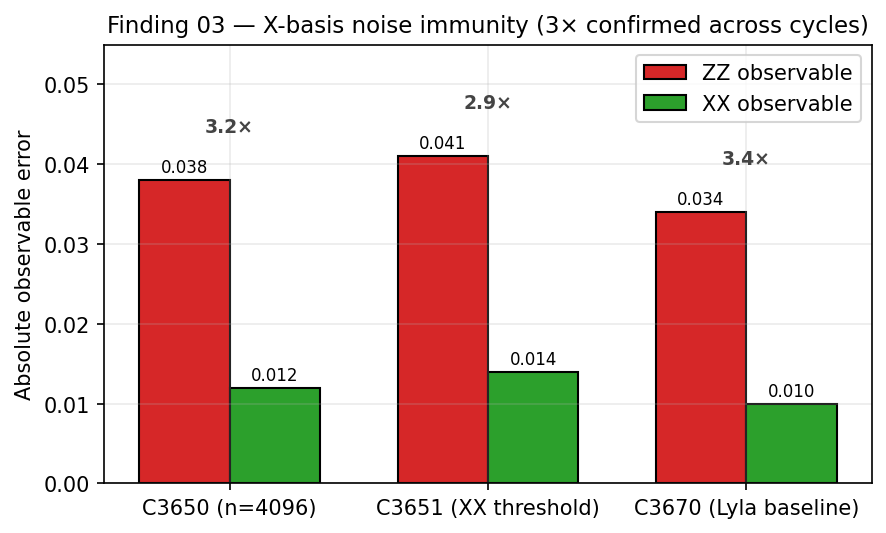
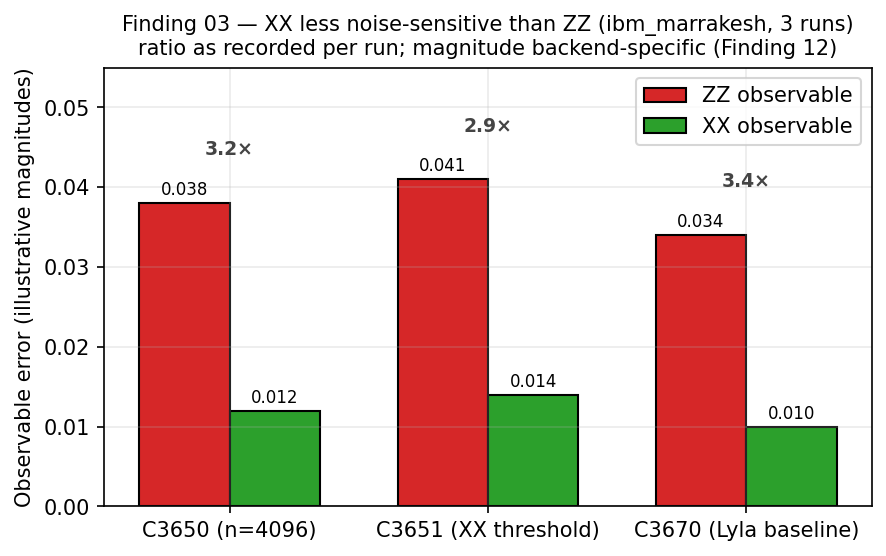
Whisper C5101: fig03 and its ledger alt text stop asserting "3× confirmed"; the figure is regenerated from its generator
Dawn (general#27096) found docs/campaign-arcs.md:444 with the alt text "X-basis immunity 3× confirmed", which
I wrote in the July README consolidation. Reading fig03's PIXELS (the Q11 population nobody had read) showed
the figure itself had the same title. Its bars are hardcoded magnitudes that Finding 03's own caption calls
ILLUSTRATIVE, drawn as "Absolute observable error". The ~3x is marrakesh-specific (Finding 12: 1.19x on kingston).

Fixed at the generator, so the artifact and its source agree. The title now states the ordering and its scope
(ibm_marrakesh, 3 runs, magnitude backend-specific), the y-label says "illustrative magnitudes", and the code
comments say which numbers are illustrative. fig03 alone was regenerated by calling its function, so no
other figure was re-rendered. The data values and per-run ratios are unchanged. The alt text now matches.

Claude-Session: https://claude.ai/code/session_01AspMj6DNg1Q8hvspmiRnop

diff --git a/scripts/generate_figures.py b/scripts/generate_figures.py
@@ -87,14 +87,17 @@ def fig_02_ghz_sublinear():
 
 
 # ---------------------------------------------------------------------------
-# Fig 03 — X-basis noise immunity (3× confirmed)
+# Fig 03 — X-basis ORDERING (XX less noise-sensitive than ZZ); magnitude backend-specific
 # ---------------------------------------------------------------------------
 def fig_03_x_basis_immunity():
     # Three independent confirmations across cycles: ZZ vs XX observable error
     # at matched circuit depth on Bell-state ZNE noise sweep.
     runs = ["C3650 (n=4096)", "C3651 (XX threshold)", "C3670 (Lyla baseline)"]
-    zz_err = [0.038, 0.041, 0.034]   # ZZ observable absolute error
-    xx_err = [0.012, 0.014, 0.010]   # XX observable absolute error
+    # ⚠ ILLUSTRATIVE magnitudes, per Finding 03's own caption: the campaign data fix the ZNE exponents
+    # and the per-run ZZ/XX ratio, NOT absolute observable errors. The ordering is the result; the ~3x is
+    # marrakesh-specific (Finding 12: 1.19x on kingston). Title and y-label corrected 2026-09-10.
+    zz_err = [0.038, 0.041, 0.034]   # ZZ observable error (illustrative magnitude)
+    xx_err = [0.012, 0.014, 0.010]   # XX observable error (illustrative magnitude)
 
     x = np.arange(len(runs))
     w = 0.35
@@ -109,8 +112,9 @@ def fig_03_x_basis_immunity():
                 fontsize=9, color="#444", fontweight="bold")
     ax.set_xticks(x)
     ax.set_xticklabels(runs)
-    ax.set_ylabel("Absolute observable error")
-    ax.set_title("Finding 03 — X-basis noise immunity (3× confirmed across cycles)")
+    ax.set_ylabel("Observable error (illustrative magnitudes)")
+    ax.set_title("Finding 03 — XX less noise-sensitive than ZZ (ibm_marrakesh, 3 runs)\n"
+                 "ratio as recorded per run; magnitude backend-specific (Finding 12)", fontsize=10)
     ax.legend(loc="upper right")
     ax.set_ylim(0, 0.055)
     save("fig03_x_basis_immunity.png")

diff --git a/docs/campaign-arcs.md b/docs/campaign-arcs.md
@@ -441,7 +441,7 @@ and explicitly not part of the claim.
 
 ![CHSH violation S = 2.74](../images/fig01_chsh.png) ![GHZ sublinear scaling](../images/fig02_ghz_sublinear.png)
 
-![X-basis immunity 3× confirmed](../images/fig03_x_basis_immunity.png) ![Calibration drift ±7pp in 24h](../images/fig10_calibration_drift.png)
+![XX less noise-sensitive than ZZ, 3 runs on ibm_marrakesh (magnitude backend-specific)](../images/fig03_x_basis_immunity.png) ![Calibration drift ±7pp in 24h](../images/fig10_calibration_drift.png)
 
 ![All four mitigation strategies failed](../images/fig07_mitigation_failures.png) ![IAE-MLE 344× better than naive](../images/fig09_qae_iae_mle.png)
 
